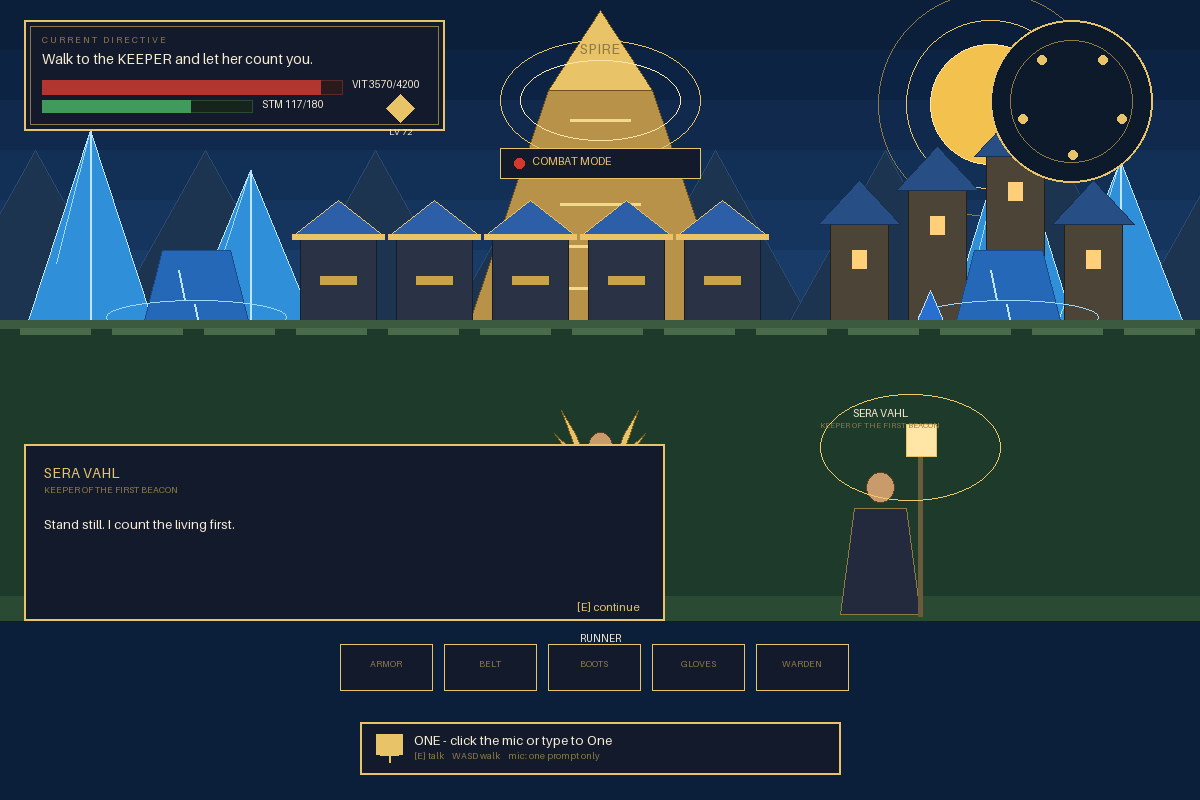
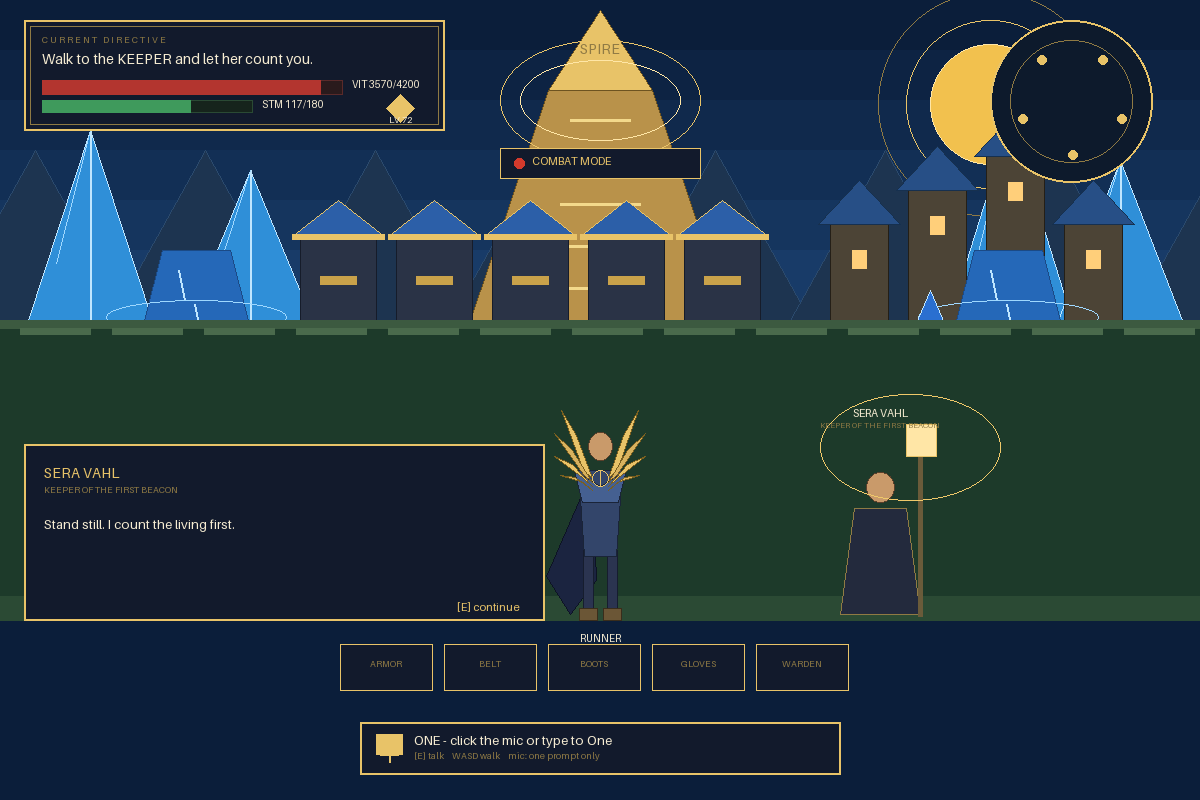
Vision dialogue plate clears the runner; LV label sits inside the ribbon

Changed region(s): [[0.4008, 0.5312, 0.555, 0.7812]]

diff --git a/VEIL-OMNI-VISION-GAME.py b/VEIL-OMNI-VISION-GAME.py
@@ -239,7 +239,7 @@ def draw_scene(b, x, y, dialogue, mic=False):
     b.rect(42, 100, 190, 112, fill="#3f9a5c")
     b.text(262, 98, "STM 117/180", fill="#f6ecd2", size=10)
     b.poly([(400, 94), (414, 108), (400, 122), (386, 108)], fill="#e8c368")
-    b.text(400, 126, "LV 72", fill="#f6ecd2", size=9, anchor="center")
+    b.text(400, 114, "LV 72", fill="#f6ecd2", size=9, anchor="center")
 
     # minimap, 180x180 at 70%, gold ring
     b.oval(990, 20, 1152, 182, fill="#0d1a2c", outline="#e8c368", width=2)
@@ -269,11 +269,11 @@ def draw_scene(b, x, y, dialogue, mic=False):
     b.text(414, H - 50, "[E] talk    WASD walk    mic: one prompt only", fill="#8f7a44", size=9)
 
     if dialogue:
-        b.rect(24, H - 356, 664, H - 180, fill="#121a2c", outline="#e8c368", width=2)
+        b.rect(24, H - 356, 544, H - 180, fill="#121a2c", outline="#e8c368", width=2)
         b.text(44, H - 336, Keeper.name, fill="#e8c368", size=14, bold=True)
         b.text(44, H - 316, Keeper.title, fill="#8f7a44", size=9)
         b.text(44, H - 284, Keeper.line, fill="#f6ecd2", size=13)
-        b.text(640, H - 200, "[E] continue", fill="#e8c368", size=11, anchor="e")
+        b.text(520, H - 200, "[E] continue", fill="#e8c368", size=11, anchor="e")
 
 
 # ------------------------------------------------------------------ the game
